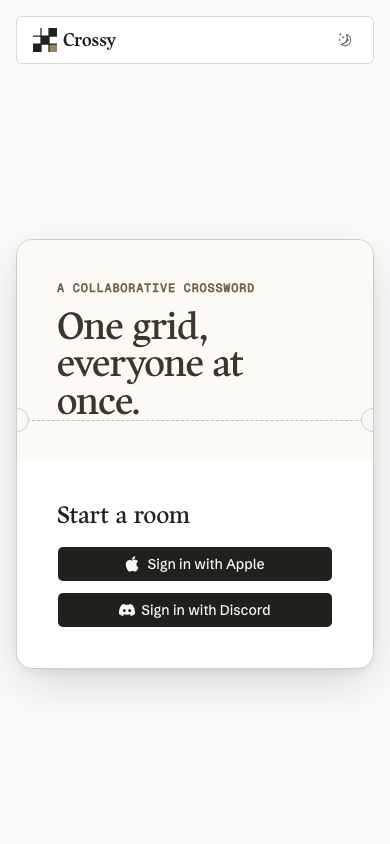
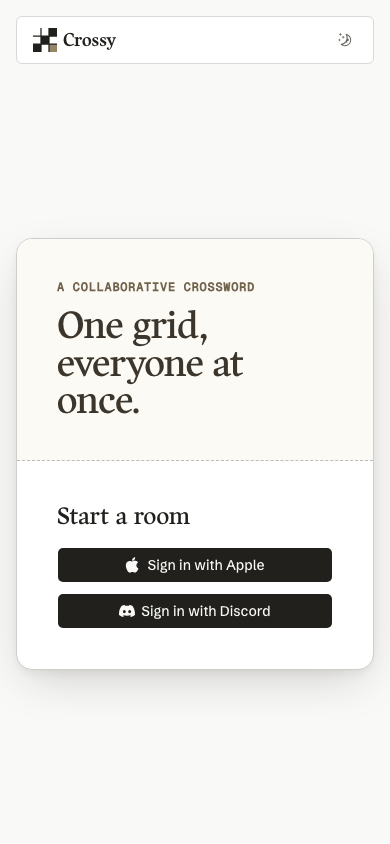
fix(web): the landing ticket seam sits at the real boundary on mobile
The stacked perforation was pinned to a guessed top-[42%], so on a phone
the dashed rule sliced through the headline. Anchor it to the actual
seam instead: the pitch stub carries a dashed bottom border while
stacked (dropped from sm up, where the vertical perforation takes over),
so the tear line always lands between the two halves with proper
breathing room. The round notches would fall mid-card when stacked, so
they stay desktop only.

diff --git a/apps/web/src/ui/Landing.tsx b/apps/web/src/ui/Landing.tsx
@@ -26,27 +26,27 @@ export function Landing({
       <TopBar identity={identity} config={config} />
       <main className="flex-1 grid place-items-center p-4 py-8 sm:py-12">
         {/* The ticket. Two stubs held by a perforation; every arrival screen is a variant of
-            this one object. It stacks to a single column below sm, where the perforation turns
-            horizontal so the pitch still sits above the action. */}
+            this one object. From sm up the perforation is a vertical dashed rule with a round
+            notch punched at each end. Stacked below sm, the seam is a dashed rule between the
+            two halves (the pitch's bottom border, so it sits at the real content boundary, never
+            a guessed percentage); the notches would land mid-card there, so they are desktop only. */}
         <div className="relative w-full max-w-[56rem] overflow-hidden rounded-6 border border-border-strong bg-panel shadow-xl grid grid-cols-1 sm:grid-cols-[1.15fr_0.85fr]">
-          {/* The perforation: a dashed rule with a round notch punched at each end, so the two
-              halves read as one tearable ticket. Horizontal while stacked, vertical from sm up.
-              The notches are filled with the page background to read as holes cut through. */}
           <span
             aria-hidden
-            className="pointer-events-none absolute left-0 right-0 top-[42%] border-t border-dashed border-border-dashed sm:left-[57.5%] sm:right-auto sm:top-0 sm:bottom-0 sm:border-t-0 sm:border-l"
+            className="pointer-events-none absolute hidden sm:block sm:left-[57.5%] sm:top-0 sm:bottom-0 sm:border-l sm:border-dashed sm:border-border-dashed"
           />
           <span
             aria-hidden
-            className="pointer-events-none absolute size-5 -translate-x-1/2 -translate-y-1/2 rounded-full border border-border-strong bg-background left-0 top-[42%] sm:left-[57.5%] sm:top-0"
+            className="pointer-events-none absolute hidden size-5 -translate-x-1/2 -translate-y-1/2 rounded-full border border-border-strong bg-background sm:block sm:left-[57.5%] sm:top-0"
           />
           <span
             aria-hidden
-            className="pointer-events-none absolute size-5 -translate-x-1/2 -translate-y-1/2 rounded-full border border-border-strong bg-background left-full top-[42%] sm:left-[57.5%] sm:top-full"
+            className="pointer-events-none absolute hidden size-5 -translate-x-1/2 -translate-y-1/2 rounded-full border border-border-strong bg-background sm:block sm:left-[57.5%] sm:top-full"
           />
 
-          {/* The stub: the pitch, printed on the gold-cream feature face. */}
-          <section className="flex flex-col justify-center bg-panel-feature p-7 sm:p-9">
+          {/* The stub: the pitch, printed on the gold-cream feature face. Its dashed bottom border
+              is the seam while stacked; it drops from sm up, where the vertical perforation takes over. */}
+          <section className="flex flex-col justify-center border-b border-dashed border-border-dashed bg-panel-feature p-7 sm:border-b-0 sm:p-9">
             <CapsLabel className="font-mono text-text-accent">
               A collaborative crossword
             </CapsLabel>